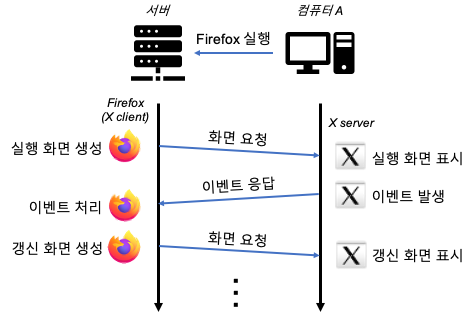
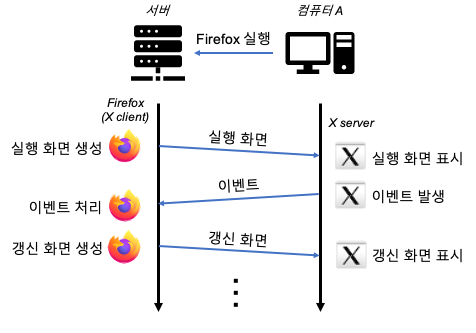
Writing post docker_gui

Changed region(s): [[0.4118, 0.5105, 0.5882, 0.6006], [0.4412, 0.3904, 0.5588, 0.4505], [0.4412, 0.6907, 0.5588, 0.7508]]

diff --git a/_posts/2020-06-07-post-docker-gui.md b/_posts/2020-06-07-post-docker-gui.md
@@ -10,53 +10,51 @@ hidden: true
 ---
 
 ## 배경
-연구를 하면서 deep learning 모델 학습을 위한 tensorflow 개발환경이 필요했고, 이때 개발환경을 빠르게 구축하기 위해서 docker를 활용했었다. 그런데 문제는 docker를 쓰면 컨테이너 안에서 Graphic User Interface (GUI)를 쓸 수가 없다는 것이다! 연구 특성상 실험 결과에 대한 그래프를 뽑아 볼일이 많았는데, matplotlib의 `plt.show()`와 같은 함수를 쓸 수가 없으니 여간 불편한 일이 아니었다. 그래서 docker 컨테이너 안에서 GUI를 사용하는 방법을 찾아보게 되었고, X window system을 활용하여 해결한 방법을 찾게 되었다. 이때 방법을 찾아보면서 얻은 정보들을 예시와 함께 블로그에 정리해 두고자 포스팅을 시작하게 되었다.
+연구를 하면서 deep learning 모델 학습을 위한 tensorflow 개발환경이 필요했고, 개발환경을 빠르게 구축하기 위해서 docker를 활용했었다. 그런데 문제는 docker를 쓰면 컨테이너 안에서 Graphic User Interface (GUI)를 쓸 수가 없다는 것이다! 연구 특성상 실험 결과에 대한 그래프를 뽑아 볼일이 많았는데, matplotlib의 `plt.show()`와 같은 함수를 쓸 수가 없으니 여간 불편한 일이 아니었다. 그래서 docker 컨테이너 안에서 GUI를 사용하는 방법을 찾아보게 되었고, X window system을 활용하여 해결한 방법을 찾게 되었다. 이때 방법을 찾아보면서 얻은 정보들을 예시와 함께 블로그에 정리해 두고자 포스팅을 시작하게 되었다.
+<br><br>
+급한 분들은 아래 [방법](#방법)으로 바로 가면 될 것이다.
 
 ## 원리
-Docker 컨테이너 안에서 GUI를 사용하기 위해서는 먼저 **X window system**에 대해 알아야 한다. X window system은 주로 UNIX 계열 운영체제에서 사용되는 GUI인데, 여기서 window system이란 (MS windows가 아니다.) 말그대로 '창'개념을 도입한 GUI이다. 우리가 흔히 보는 macOS나 MS windows의 GUI는 전형적인 window system에 속하며, Quartz Compositor나 Desktop Window Manager와 같은 고유의 window system을 사용하여 GUI를 표현한다. 그렇다면 X window system은 기존의 window system들과 어떤 점이 다른 것인가? 아래의 내용은 wikipedia의 X window system에 대한 내용 중 일부를 발췌한 것이다.
+Docker 컨테이너 안에서 GUI를 사용하기 위해서는 먼저 **X window system**에 대해 알아야 한다. X window system은 주로 UNIX 계열 운영체제에서 사용되는 GUI인데, 여기서 window system이란 (MS windows가 아니다.) 말그대로 '창'개념을 도입한 GUI이다. 우리가 흔히 보는 macOS나 MS windows의 GUI는 전형적인 window system에 속하며, 각각 Quartz Compositor나 Desktop Window Manager와 같은 고유의 window system을 사용하여 GUI를 표현한다. 그렇다면 X window system은 기존의 window system들과 어떤 점이 다른 것인가? 아래의 내용은 wikipedia의 X window system에 대한 내용 중 일부를 발췌한 것이다.
 
 > X was specifically designed to be used over network connections rather than on an integral or attached display device. - Wikipedia
 
 특이한 점은 network connections, 즉 원격 GUI를 위한 system인 것이다. 그래서 X window system은 네트워크 기반의 client-server 모델을 활용하여 GUI를 구현한다. 이때 사용되는 프로토콜을 X protocol이라 하고, 클라이언트와 서버를 각각 X client, X server라 부른다. 아래는 이해를 돕기 위해 X window system이 동작하는 예시를 그림을 통해 표현한 것이다.
 
+<br>
 ![figure1](/assets/images/posts/docker-gui/figure1.png){: .align-center}
 <figure style="display: block; text-align: center;"><figcaption>그림 1: X window system이 동작하는 예시 (컴퓨터 A - 서버)</figcaption></figure>
 
-컴퓨터 A에서 서버에 설치된 firefox 브라우저를 실행하고 그 화면을 컴퓨터 A에서 표시하려는 상황을 생각해보자. Firefox (X client)는 실행 화면을 생성하여 컴퓨터 A에 설치된 X server로 화면 내용을 전송한다. 그러면 이 X server는 전송받은 firefox 화면을 컴퓨터 A의 모니터에 표시한다. 만약 이때 컴퓨터 A에서 이벤트가 발생하면 (가령 웹사이트에 접속하기 위해 마우스를 클릭 하는 경우) firefox에 해당 이벤트를 알려준다. 이벤트 내용을 받은 firefox는 해당 이벤트에 대한 처리 (이벤트가 웹사이트 접속이라면 해당 사이트의 화면을 생성)를 완료한 후 갱신된 화면 내용을 다시 X server로 보내게 된다. X server는 갱신된 화면을 컴퓨터 A의 모니터에 표시하고, 이러한 과정을 반복함으로써 GUI 환경을 원격으로 이용할 수 있는 것이다.
+컴퓨터 A에서 서버에 설치된 firefox 브라우저를 실행하고 그 화면을 컴퓨터 A에서 표시하려는 상황을 생각해보자. Firefox (X client)는 실행 화면을 생성하여 컴퓨터 A에 설치된 X server로 화면 내용을 전송한다. 그러면 X server는 전송받은 화면을 컴퓨터 A의 모니터에 표시한다. 그 후 만약 컴퓨터 A에서 이벤트가 발생하면 (가령 웹사이트에 접속하기 위해 마우스를 클릭 하는 이벤트가 발생하는 경우) 컴퓨터 A는 서버의 firefox에 해당 이벤트를 알려준다. 이벤트 내용을 받은 firefox는 해당 이벤트에 대한 처리 (이벤트가 웹사이트 접속이라면 해당 사이트의 화면을 생성)를 완료한 후 갱신된 화면 내용을 다시 X server로 보내게 된다. X server는 갱신된 화면을 컴퓨터 A의 모니터에 표시하고 새로운 이벤트가 발생하면 위의 과정이 반복된다. 이러한 과정을 통해 X window system은, GUI 환경을 원격으로 제공 할 수 있는 것이다.
 <br><br>
-그런데, 여기서 X server가 firefox에게 화면을 요청한다고 생각한다면, "firefox가 X server가 아니냐?" 라고 생각 할 수 있다. 그러나, 이것은 X window system이 응용프로그램 관점에서 설계 되었기 때문에 생기는 오해이다. 즉, X server가 응용프로그램에 I/O 서비스 (화면, 키보드, 마우스 등) 를 제공하고 응용 프로그램은 이러한 서비스를 이용하는 개념이라 보는 것이다.
+그런데, X server가 firefox에게 화면을 요청한다고 생각한다면, "firefox가 X server" 라고 생각 할 수 있다. 그러나, 이것은 X window system이 응용프로그램 관점에서 설계 되었기 때문에 생기는 오해이다. 즉, X server가 응용프로그램에 I/O 서비스 (화면, 키보드, 마우스 등)를 제공하고 응용 프로그램은 이러한 서비스를 이용하는 개념이라 보는 것이다.
 <br><br>
-여기까지 이해를 했다면 왜 docker 컨테이너 안에서 GUI를 사용할 때 X window system을 사용하는지 알 수 있을 것이다.<br>
-아래의 그림과 같이 서버를 docker 컨테이너, 컴퓨터 A를 host OS라 생각한다면, 똑같은 원리를 적용하여 docker 컨테이너 안에서 GUI를 이용 할 수 있다.
+여기까지 이해를 했다면 왜 docker 컨테이너 안에서 GUI를 사용할 때 X window system을 사용하는지 알 수 있을 것이다. 아래의 그림과 같이 서버를 docker 컨테이너, 컴퓨터 A를 host OS라 생각한다면, 똑같은 원리를 적용하여 docker 컨테이너 안에서 GUI를 이용 할 수 있다.
 
+<br>
 ![figure2](/assets/images/posts/docker-gui/figure2.png){: .align-center}
 <figure style="display: block; text-align: center;"><figcaption>그림 2: X window system이 동작하는 예시 (Host OS - Docker 컨테이너)</figcaption></figure>
 
 ## 방법
-Docker는 리눅스 컨테이너를 이용하여 동작하므로, X window system을 기본적으로 지원한다.<br>
-따라서 우리는 host OS에서 X server만 설치해 주면 docker 컨테이너 안의 응용 프로그램의 GUI를 host OS에서 사용할 수 있다.<br>
-Host OS에 따라 크게 macOS와 MS Windows로 나누어 설명 하도록 하겠다.
+Docker는 리눅스 컨테이너를 기반하여 동작하므로, X window system을 기본적으로 지원한다. 따라서 우리는 host OS에서 X server만 설치해 주면 docker 컨테이너 안에 있는 응용 프로그램의 GUI를 host OS에서 제공 받을 수 있다. X server 설치와 설정 방법을 host OS에 따라 크게 macOS와 MS windows로 나누어 설명 하도록 하겠다.
 
 #### 1-a. macOS의 경우
-옛날에는 macOS에서도 X window system을 지원 했지만 현재는 더이상 지원하지 않는다.<br>
-대신 Xquartz를 사용하여 macOS에 대한 X window system을 계속 이용 할 수 있다.
-따라서, host OS (macOS) 에 X server를 설치하기 위해 [Xquartz](https://www.xquartz.org/index.html){: target="_blank"} 최신 버전을 설치하도록 하자.<br>
+옛날에는 macOS에서도 X window system을 지원 했지만 현재는 더이상 지원하지 않는다. 대신 Xquartz를 사용하여 macOS에 대한 X window system을 계속 이용 할 수 있다. 따라서, host OS (macOS)에 X server를 설치하기 위해 [여기서](https://www.xquartz.org/index.html){: target="_blank"} Xquartz 최신 버전을 설치하도록 하자. 설치를 마쳤다면, Xquartz의 환경 설정에서 아래에 표시된 옵션을 켜주도록 하자.
 
-Docker 컨테이너 안에서 macOS의 X server로 접속할 것이므로, 아래의 Allow connections from network clients 옵션을 켜주도록 하자.
-
+<br>
 ![figure3](/assets/images/posts/docker-gui/figure3.png){: .align-center}
 <figure style="display: block; text-align: center;"><figcaption>그림 3: Xquartz 환경설정</figcaption></figure>
 
-다음은 X server에 docker 컨테이너 안의 X client가 접근 할 수 있도록, IP를 허용해 주어야 한다.<br>
-그러나 docker 컨테이너는 실제 원격 컴퓨터가 아니므로 localhost 주소로 접속 할 것이다.<br>
-따라서, 터미널을 열고 다음과 같이 입력하도록 하자.<br>
+우리는 docker 컨테이너 안에서 macOS의 X server로 접속할 것이므로, "네트워크 클라이언트에서의 연결을 허용" (Allow connections from network clients) 옵션을 체크 해주어야 docker 컨테이너 안에서 접속이 가능하다.
+<br><br>
+다음은 docker 컨테이너 안의 X client가 X server에 접근 할 수 있도록, IP를 허용해 주어야 한다. 그러나 docker 컨테이너는 실제 원격 컴퓨터가 아니므로 localhost 주소를 통해 접속 하면 될 것이다. 따라서, 터미널을 열고 다음과 같이 입력하도록 하자.
 
 ``` bash
 $ xhost localhost
 localhost being added to access control list
 ```
 
-xhost명령어로 확인 해보면 localhost가 추가되어있는 것을 확인 할 수있다.
+xhost 명령어로 확인 해보면 아래와 같이 localhost가 추가되어있는 것을 확인 할 수있다.
 
 ``` bash
 $ xhost
@@ -66,10 +64,22 @@ INET6:localhost
 ```
 
 #### 1-b. MS windows의 경우
-MS windows에서 지원하는 X server는 여럿 있지만 나는 vcxsrv를 사용할 것이다.
+MS windows에서 지원하는 X server는 여럿 있지만 그 중 VcXsrv를 사용해 볼 것이다. [여기서](https://github.com/ArcticaProject/vcxsrv){: target="_blank"} VcXsrv 최신버전을 설치 하도록 하자.
 
-#### 2. docker 컨테이너 설정
-X client는 DISPLAY환경변수에 입력된 내용을 보고 생성된 화면을 X server로 전송한다.<br>
+// Todo VcXsrv 설정 설명
+
+#### 2. Docker 컨테이너 설정
+Tensorflow 컨테이너 안에서 matplotlib의 `plt.show()`를 통해 그래프를 출력해야 하는 상황을 예제로 삼아 진행할 것이다. Docker 컨테이너를 생성하는 방법을 비롯한 기본적인 지식은 알고 있다고 가정 할 것이다.
+<br><br>
+위 문제를 해결 하기 위해 우리가 할 수 있는 질문은 크게 2가지 이다.
+
+1. X Client가 화면 정보를 보낼 IP는 무엇인가?
+2. IP를 알았다면 이것을 설정하는 방법은?
+
+1번의 답은 localhost이다. 그러나 docker 컨테이너는 네트워크도 격리되어 있으므로, 컨테이너 안에서의 localhost는 말그대로 컨테이너의 localhost이다. (Host OS의 localhost가 아니다.) 그럼 host OS의 X server 포트에 접근하기 위한 IP는 무엇일까? Docker는 host OS에 접근하기 위한 DNS를 내부적으로 지원하는데 그 DNS는 host.docke.internal이다.
+<br><br>
+이제 host OS에 접근하는 DNS를 알게 되었으니 그렇다면 어떻게 접근 하는 것일까? (2번 질문) X client는 DISPLAY라는 시스템 환경변수에 입력된 내용을 보고 생성된 화면을 X server로 전송한다. DISPLAY 변수는 다음과 같은 구조로 이루어져 있다.
+
 그래서 docker 컨테이너를 생성할때 환경변수 값으로 DISPLAY변수를 아래와 같이 함께 입력 하도록 하자.<br>
 
 ``` bash
